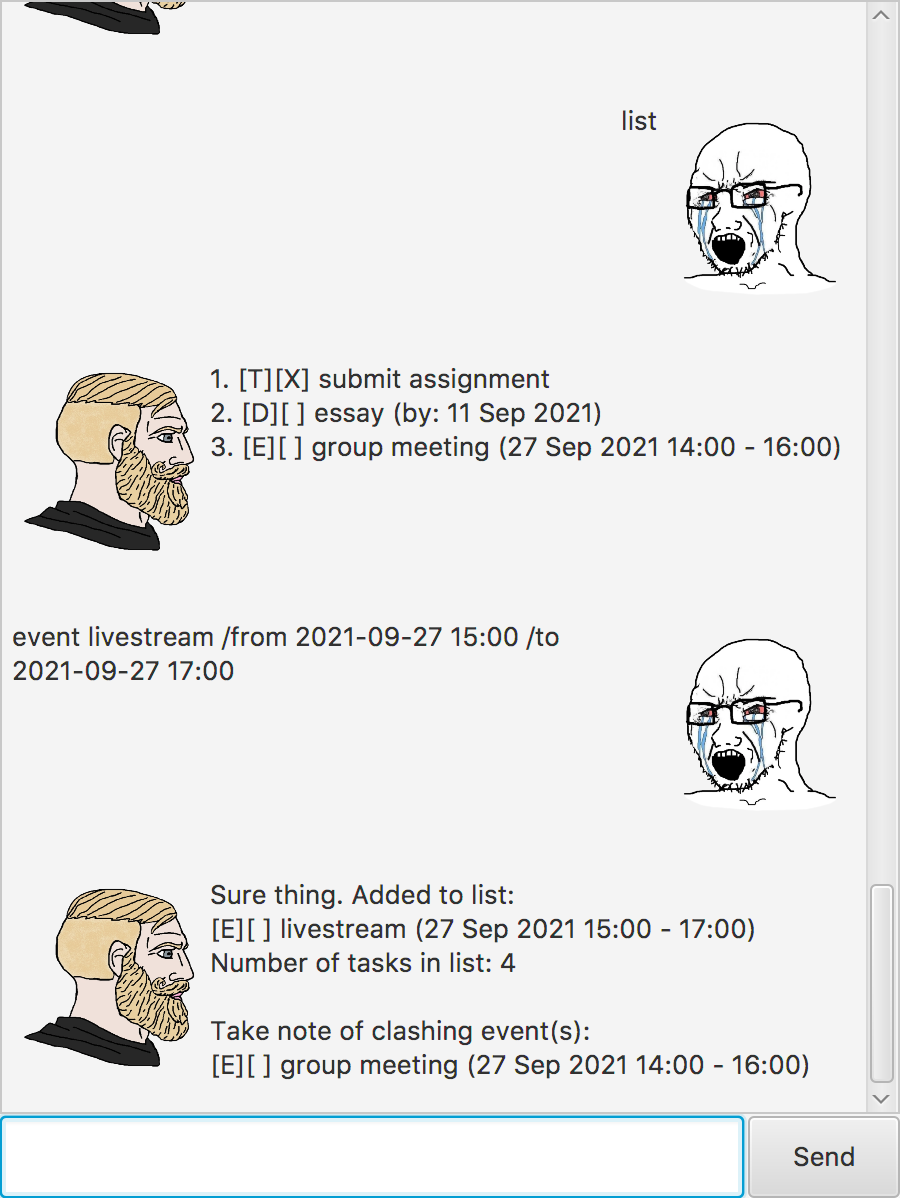
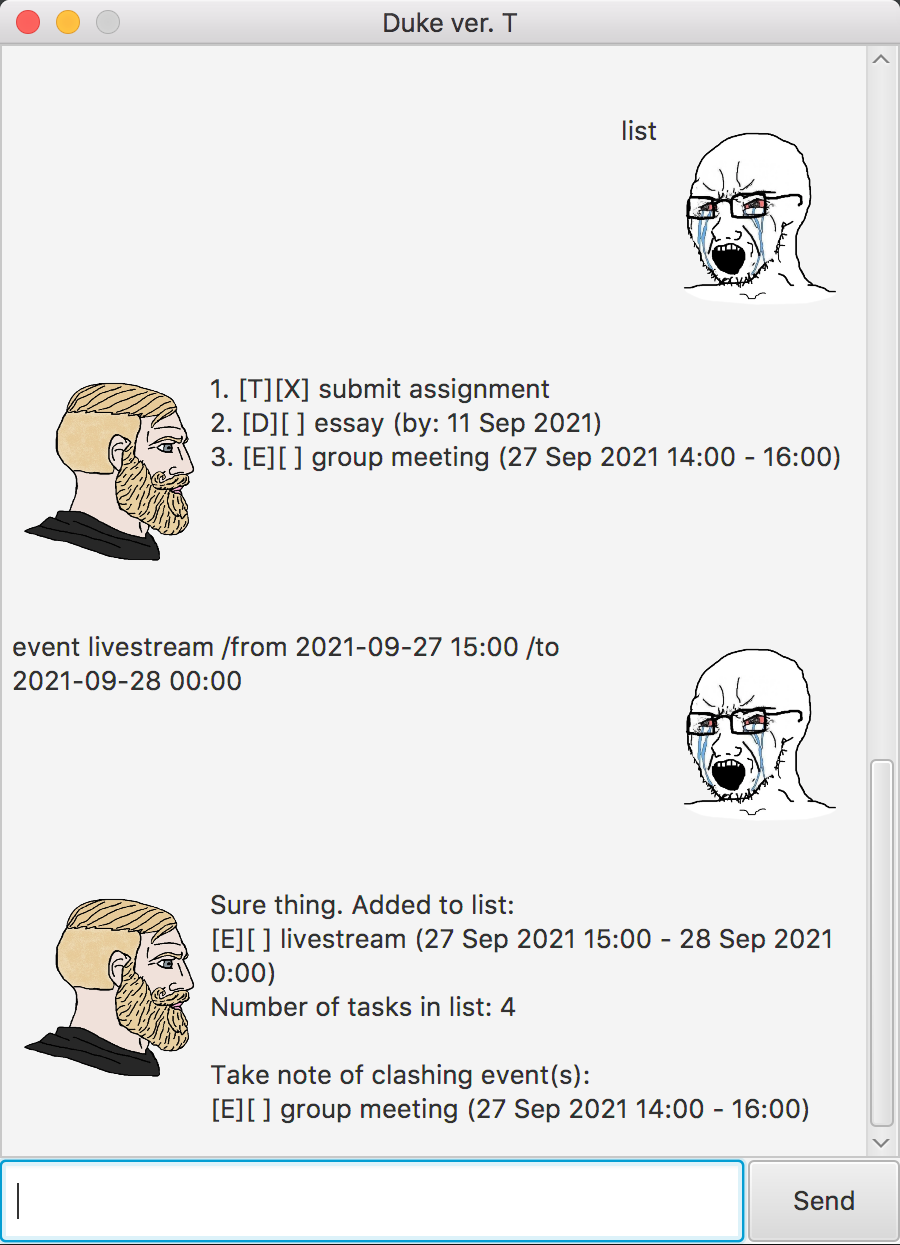
Update user guide

diff --git a/docs/README.md b/docs/README.md
@@ -1,29 +1,186 @@
-# User Guide
+# User Guide: *Duke ver. T*
 
 ## Features 
 
-### Feature-ABC
+### Feature- Save Todos, Events, & Deadlines
 
-Description of the feature.
+You can add 3 different types of tasks to your list to keep track of.
 
-### Feature-XYZ
+### Feature- Event clash detection
 
-Description of the feature.
+Duke ver. T warns you if you have events that overlap.
 
 ## Usage
 
-### `Keyword` - Describe action
+### `list` - View your task list
 
-Describe the action and its outcome.
+Displays all tasks currently in your task list.
 
-Example of usage: 
+Example of usage:
 
-`keyword (optional arguments)`
+`list`
 
 Expected outcome:
 
-Description of the outcome.
+Duke ver. T shows your list.
+
+Example list:
 
 ```
-expected output
+1. [T][ ] Finish assignment
+2. [T][X] Schedule meeting
+3. [E][ ] Group meeting (11 Sep 2021 15:00 - 17:00)
+4. [D][ ] Proposal submission (by: 31 Oct 2021)
+```
+Output if your list is empty:
+```
+No tasks in list!
+```
+
+### `todo` - Add a 'To-do' task to your list
+
+Adds a new todo task to your list.
+
+Format:
+`todo [NAME OF TASK]`
+
+Example of usage:
+
+```
+todo buy groceries
+```
+
+Expected outcome:
+
+Duke ver. T adds a new todo task called `buy groceries`.
+
+```
+Sure thing. Added to list:
+[T][ ] buy groceries
+Number of tasks in list: 1
+```
+
+### `event` - Add an event to your list
+
+Adds an event that spans a given duration to your list.
+
+Format:
+`event [NAME OF EVENT] /from [START] /to [END]`
+
+`[START]` and `[END]` are to be in the format `yyyy-MM-dd HH:mm`.
+
+Example of usage:
+
+```
+event group meeting /from 2021-09-11 09:11 /to 2021-09-11 11:09
+```
+
+Expected outcome:
+Duke ver. T adds a new event to your list.
+```
+Sure thing. Added to list:
+[E][ ] group meeting (11 Sep 2021 09:00 - 11:00)
+Number of tasks in list: 2
+```
+Duke ver. T will warn you if the event you just added clashes with another event on your list.
+```
+Take note of clashing event(s):
+[E][ ] concert (11 Sep 2021 10:00 - 11:00)
+```
+
+### `deadline` - Add a deadline to your list
+Adds a deadline with a given date to your list.
+
+Format: `deadline [NAME OF DEADLINE] /by [DATE]`
+
+`[DATE]` must be in the format `[yyyy-MM-dd]`.
+
+Example of usage:
+```
+deadline assignment /by 2021-09-11
+```
+Expected outcome:
+
+Duke ver. T adds given deadline to your list.
+```
+Sure thing. Added to list:
+[D][ ] assignment (by: 11 Sep 2021)
+Number of tasks in list: 3
+```
+### `done` - Mark a task as done
+
+Marks the task with the given index in your list as 'done'.
+
+Format: `done [INDEX]`
+
+`[INDEX]` starts from 1.
+
+Example of usage:
+```
+done 1
+```
+Expected outcome:
+
+Duke ver. T marks the given task as 'done'.
+```
+Alrighty, marking this task as done:
+[T][X] Finish assignment
+```
+
+### `delete` - Delete a task from your list
+
+Permanently deletes a given task from your list.
+
+Format: `delete [INDEX]`
+
+`[INDEX]` starts from 1.
+
+Example of usage:
+```
+delete 2
+```
+Expected outcome:
+
+Duke ver. T permanently removes given task from your list.
+```
+Okay then, I've removed this from the list:
+[T][X] Schedule meeting
+Number of tasks in list: 5
+```
+
+### `find` - Find a task in your list
+
+Finds all tasks in your list from your given search terms.
+
+Format: `find [SEARCH TERMS]`
+
+Example of usage:
+```
+find meeting
+```
+Expected outcome:
+
+Duke ver. T returns a list of tasks that match your search term.
+
+```
+Here's a list of the stuff I found that match what you're looking for:
+2. [T][X] Schedule meeting
+3. [E][ ] Group meeting (11 Sep 2021 15:00 - 17:00)
+```
+### `bye` - Close *Duke ver. T* application
+
+Stops Duke ver. T and closes the application.
+
+Example of usage:
+
+```
+bye
+```
+
+Expected outcome:
+
+Duke ver. T closes after you press `enter` or hit the 'Send' button.
+
+```
+Seeya, press enter again to close.
 ```
